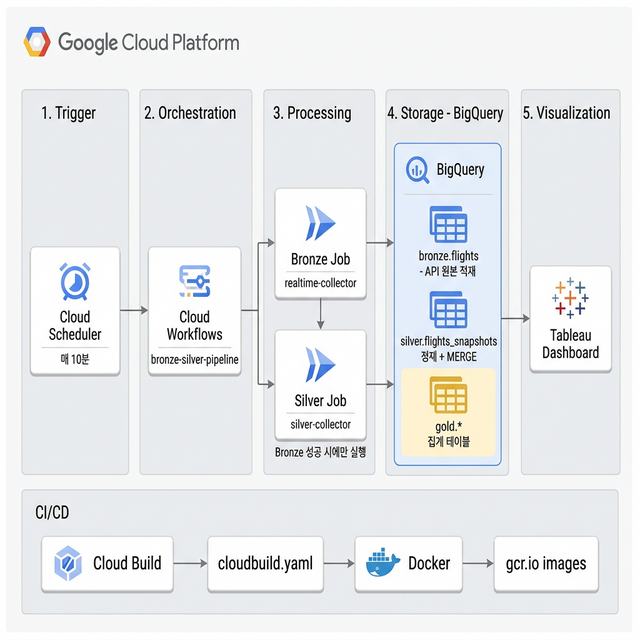
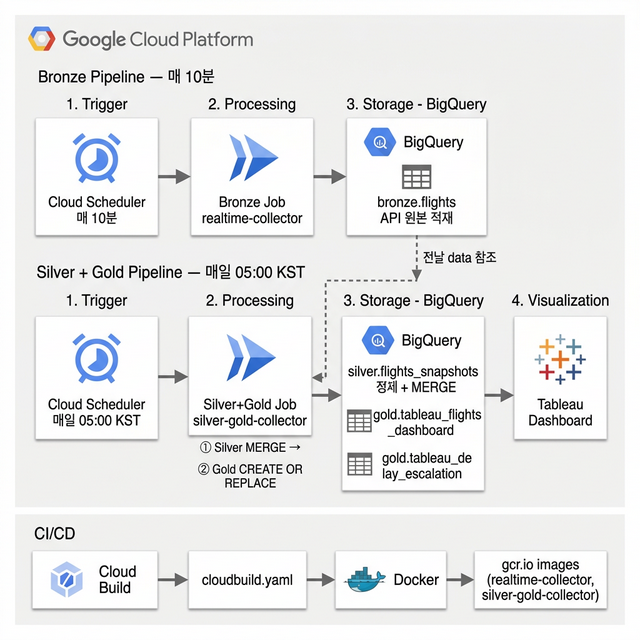
📝  docs: update README and architecture diagram to reflect Silver+Gold unified job

Changed region(s): [[0.0312, 0.0312, 0.9688, 0.7812], [0.0312, 0.7812, 0.9688, 0.9688], [0.0312, 0.2188, 0.0625, 0.25]]

diff --git a/README.md b/README.md
@@ -16,13 +16,14 @@
 
 ## 기술 스택
 
-- **수집**: Python, Requests (인천공항 공개 API)
-- **컨테이너**: Docker, Google Cloud Run Jobs
-- **오케스트레이션**: Google Cloud Workflows
-- **스케줄링**: Google Cloud Scheduler
-- **저장소**: Google BigQuery
-- **CI/CD**: Google Cloud Build
-- **시각화**: Tableau
+| 역할     | 기술                                 |
+| -------- | ------------------------------------ |
+| 수집     | Python, Requests (인천공항 공개 API) |
+| 컨테이너 | Docker, Google Cloud Run Jobs        |
+| 스케줄링 | Google Cloud Scheduler               |
+| 저장소   | Google BigQuery                      |
+| CI/CD    | Google Cloud Build                   |
+| 시각화   | Tableau                              |
 
 ## 아키텍처
 
@@ -30,11 +31,12 @@
 
 ### 레이어 구조
 
-| 레이어     | 테이블                     | 설명                                                    |
-| ---------- | -------------------------- | ------------------------------------------------------- |
-| **Bronze** | `bronze.flights`           | API 원본 그대로 적재. 수집 시각(±3시간 윈도우)별 스냅샷 |
-| **Silver** | `silver.flights_snapshots` | 상태 변화가 있는 스냅샷만 필터링 + 이상 시간값 정제     |
-| **Gold**   | (Tableau 연결)             | 지연 패턴 분석용 집계 테이블                            |
+| 레이어     | 테이블                           | 갱신 주기  | 설명                                                    |
+| ---------- | -------------------------------- | ---------- | ------------------------------------------------------- |
+| **Bronze** | `bronze.flights`                 | 매 10분    | API 원본 그대로 적재. 수집 시각(±3시간 윈도우)별 스냅샷 |
+| **Silver** | `silver.flights_snapshots`       | 매일 05:00 | 상태 변화가 있는 스냅샷만 필터링 + 이상 시간값 정제     |
+| **Gold**   | `gold.tableau_flights_dashboard` | 매일 05:00 | 항공편별 최신 운항 현황 (Tableau 연결)                  |
+| **Gold**   | `gold.tableau_delay_escalation`  | 매일 05:00 | 항공편별 최초→최종 지연 변화 분석 (Tableau 연결)        |
 
 ### ERD
 
@@ -52,6 +54,12 @@
 Silver 적재 시 단순 `WRITE_APPEND`가 아닌 **staging 테이블 → MERGE** 방식을 사용합니다.  
 동일 `(flight_key, collected_at)` 조합이 중복으로 들어오는 것을 방지하여 멱등성을 확보합니다.
 
+### Silver + Gold 통합 Job
+
+Silver와 Gold를 별도 Job으로 분리하지 않고 **단일 Cloud Run Job(`silver-gold-job`)** 으로 통합했습니다.  
+Silver 처리가 완료된 뒤 Gold를 실행하는 순서 보장이 필요하고, 두 작업 모두 하루 1회 실행이라 오케스트레이션 레이어(Cloud Workflows)를 별도로 두는 것이 과도한 복잡성을 추가한다고 판단했습니다.  
+Silver 실패 시 Gold 실행을 중단(`raise SystemExit(1)`)하여 불완전한 Gold 데이터 생성을 방지합니다.
+
 ### 이상 시간값 처리
 
 API 응답에 `"13:68"`, `"91:2"` 같은 시간 형식이 혼재합니다.  
@@ -62,26 +70,53 @@ API 응답에 `"13:68"`, `"91:2"` 같은 시간 형식이 혼재합니다.
 ```
 GateReady/
 ├── cloud_run/
-│   ├── Dockerfile            # Bronze Job 이미지
-│   ├── Dockerfile.silver     # Silver Job 이미지
-│   ├── run_job.py            # Bronze Job 엔트리포인트
-│   └── run_silver_job.py     # Silver Job 엔트리포인트
+│   ├── Dockerfile              # Bronze Job 이미지 (realtime-job)
+│   ├── Dockerfile.silver_gold  # Silver+Gold 통합 Job 이미지 (silver-gold-job)
+│   ├── run_job.py              # Bronze Job 엔트리포인트
+│   └── run_silver_gold_job.py  # Silver+Gold Job 엔트리포인트
 ├── src/
 │   ├── collectors/
-│   │   ├── bronze.py         # API 수집 + BigQuery 적재
-│   │   ├── realtime.py       # 실시간 수집 (±3시간 윈도우)
-│   │   └── silver.py         # Bronze 정제 + MERGE
-│   ├── bq.py                 # BigQuery 클라이언트 공통 모듈
-│   └── config.py             # 환경변수 기반 설정
-├── workflows/
-│   └── pipeline.yaml         # Cloud Workflows 정의 (Bronze → Silver)
-├── cloudbuild.yaml           # Cloud Build CI/CD
-└── sql/                      # Gold 레이어용 쿼리
+│   │   ├── bronze.py           # API 수집 + BigQuery 적재
+│   │   ├── realtime.py         # 실시간 수집 (±3시간 윈도우)
+│   │   ├── silver.py           # Bronze 정제 + MERGE
+│   │   └── gold.py             # Silver 기반 Gold 테이블 갱신
+│   ├── bq.py                   # BigQuery 클라이언트 공통 모듈
+│   ├── config.py               # 환경변수 기반 설정
+│   └── logger.py               # 로깅 설정
+├── sql/
+│   ├── bronze/                 # Bronze 테이블 정의 DDL
+│   ├── silver/                 # Silver 테이블 정의 DDL
+│   └── gold/
+│       ├── create_tableau_dashboard_table.sql   # Gold: 최신 운항 현황
+│       └── create_delay_escalation_table.sql    # Gold: 지연 변화 분석
+├── cloudbuild.yaml             # Cloud Build CI/CD (Bronze + Silver+Gold 이미지)
+└── .env.example                # 환경변수 예시
 ```
 
 ## 배포
 
 ```bash
-# 전체 빌드 및 배포 (Bronze + Silver 이미지 + Workflows)
+# 전체 빌드 및 배포 (Bronze 이미지 + Silver+Gold 이미지)
 gcloud builds submit --config cloudbuild.yaml --project=$PROJECT_ID .
 ```
+
+Cloud Build는 다음 두 이미지를 빌드하고 Cloud Run Job을 업데이트합니다:
+
+| 이미지                                     | Cloud Run Job     | 트리거                           |
+| ------------------------------------------ | ----------------- | -------------------------------- |
+| `gcr.io/$PROJECT_ID/realtime-collector`    | `realtime-job`    | Cloud Scheduler (매 10분)        |
+| `gcr.io/$PROJECT_ID/silver-gold-collector` | `silver-gold-job` | Cloud Scheduler (매일 05:00 KST) |
+
+## 환경변수
+
+`.env.example`을 참고하여 `.env` 파일을 생성합니다.
+
+| 변수명                           | 설명                                    |
+| -------------------------------- | --------------------------------------- |
+| `BQ_PROJECT_ID`                  | GCP 프로젝트 ID                         |
+| `BQ_DATASET_BRONZE`              | Bronze 데이터셋 이름 (기본값: `bronze`) |
+| `BQ_DATASET_SILVER`              | Silver 데이터셋 이름 (기본값: `silver`) |
+| `BQ_DATASET_GOLD`                | Gold 데이터셋 이름 (기본값: `gold`)     |
+| `FLIGHT_API_URL`                 | 인천공항 항공편 API 엔드포인트          |
+| `AIRLINE_API_URL`                | 항공사 정보 API 엔드포인트              |
+| `GOOGLE_APPLICATION_CREDENTIALS` | GCP 서비스 계정 키 경로                 |
